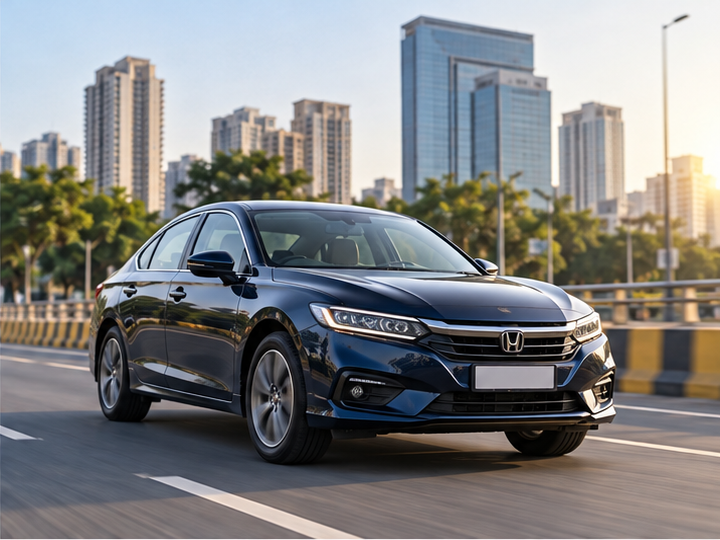
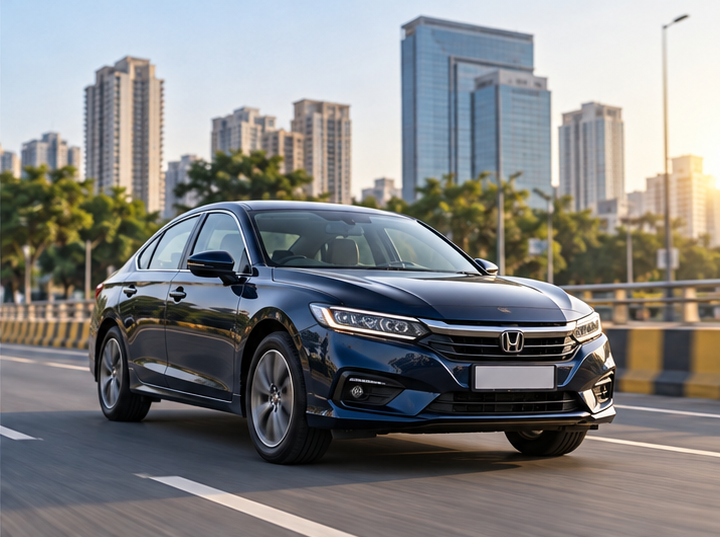
set loan img card according to img ratio in service section

diff --git a/src/components/services-section/ServicesReveal.jsx b/src/components/services-section/ServicesReveal.jsx
@@ -5,10 +5,10 @@ import ScrollStack, { ScrollStackItem } from './ServicesScrollStack.jsx'
 import { loanServices } from '../../data/loan-services-data.js'
 
 const SERVICE_CARD_COLORS = [
-  { background: '#ffffff', color: 'var(--navy)', tone: 'light' },
-  { background: 'var(--gold)', color: 'var(--navy)', tone: 'gold' },
-  { background: 'color-mix(in srgb, var(--navy) 9%, white)', color: 'var(--navy)', tone: 'light' },
-  { background: '#18356f', color: '#ffffff', border: '1px solid rgba(198, 146, 20, 0.36)', tone: 'dark' },
+  { background: '#ffffff', color: 'var(--navy)', tone: 'light', dotColor: 'var(--gold)' },
+  { background: 'var(--gold)', color: 'var(--navy)', tone: 'gold', dotColor: '#ffffff' },
+  { background: 'color-mix(in srgb, var(--navy) 9%, white)', color: 'var(--navy)', tone: 'light', dotColor: 'var(--gold)' },
+  { background: '#18356f', color: '#ffffff', border: '1px solid rgba(198, 146, 20, 0.36)', tone: 'dark', dotColor: 'var(--gold)' },
 ]
 
 const SERVICE_BUTTON_STYLES = {
@@ -104,7 +104,7 @@ function ServiceCard({ card }) {
       </div>
 
       <h3 className="mb-3 text-3xl font-extrabold leading-[1.02] tracking-[-0.04em] sm:text-4xl lg:text-5xl">
-        {card.title}<span className="text-[#c69214]">.</span>
+        {card.title}<span style={{ color: card.dotColor }}>.</span>
       </h3>
       <p className={`mb-6 line-clamp-2 max-w-md text-base leading-relaxed opacity-80 lg:text-lg ${isDark ? 'text-white' : 'text-[#10224d]'}`}>
         {card.description}
@@ -138,22 +138,24 @@ function ServiceCard({ card }) {
   )
 
   const image = card.image ? (
-    <img
-      src={card.image.src}
-      alt={card.image.alt}
-      loading="lazy"
-      decoding="async"
-      style={{ objectPosition: card.image.imagePosition || 'center' }}
-      className={`order-1 aspect-[4/3] max-h-[24rem] w-full self-start rounded-2xl object-cover sm:aspect-[16/10] sm:max-w-[38.4rem] sm:justify-self-center lg:order-1 lg:aspect-auto lg:h-full lg:max-h-none lg:max-w-none lg:min-h-[22rem] lg:self-stretch lg:justify-self-stretch ${card.imageFirst ? '' : 'lg:order-2'}`}
-    />
+    <div className={`relative order-1 aspect-[4/3] w-full overflow-hidden rounded-2xl ${card.imageFirst ? 'lg:order-1' : 'lg:order-2'}`}>
+      <img
+        src={card.image.src}
+        alt={card.image.alt}
+        loading="lazy"
+        decoding="async"
+        style={{ objectPosition: card.image.imagePosition || 'center' }}
+        className="absolute inset-0 h-full w-full object-cover"
+      />
+    </div>
   ) : <WalletPlaceholder />
 
   return (
     <ScrollStackItem
-      itemClassName="h-[38rem] rounded-[28px] p-4 sm:h-[48rem] sm:p-6 lg:h-[27rem] lg:p-8"
+      itemClassName="h-auto rounded-[28px] p-4 sm:p-6 lg:p-8"
       style={{ background: card.background, color: card.color, border: card.border }}
     >
-      <div className="grid h-full grid-cols-1 content-start items-start gap-4 sm:gap-5 lg:grid-cols-2 lg:content-stretch lg:items-stretch lg:gap-12">
+      <div className={`grid grid-cols-1 items-start gap-4 sm:gap-5 lg:items-center lg:gap-12 ${card.imageFirst ? 'lg:grid-cols-[0.85fr_1fr]' : 'lg:grid-cols-[1fr_0.85fr]'}`}>
         {card.imageFirst ? <>{image}{content}</> : <>{content}{image}</>}
       </div>
     </ScrollStackItem>
